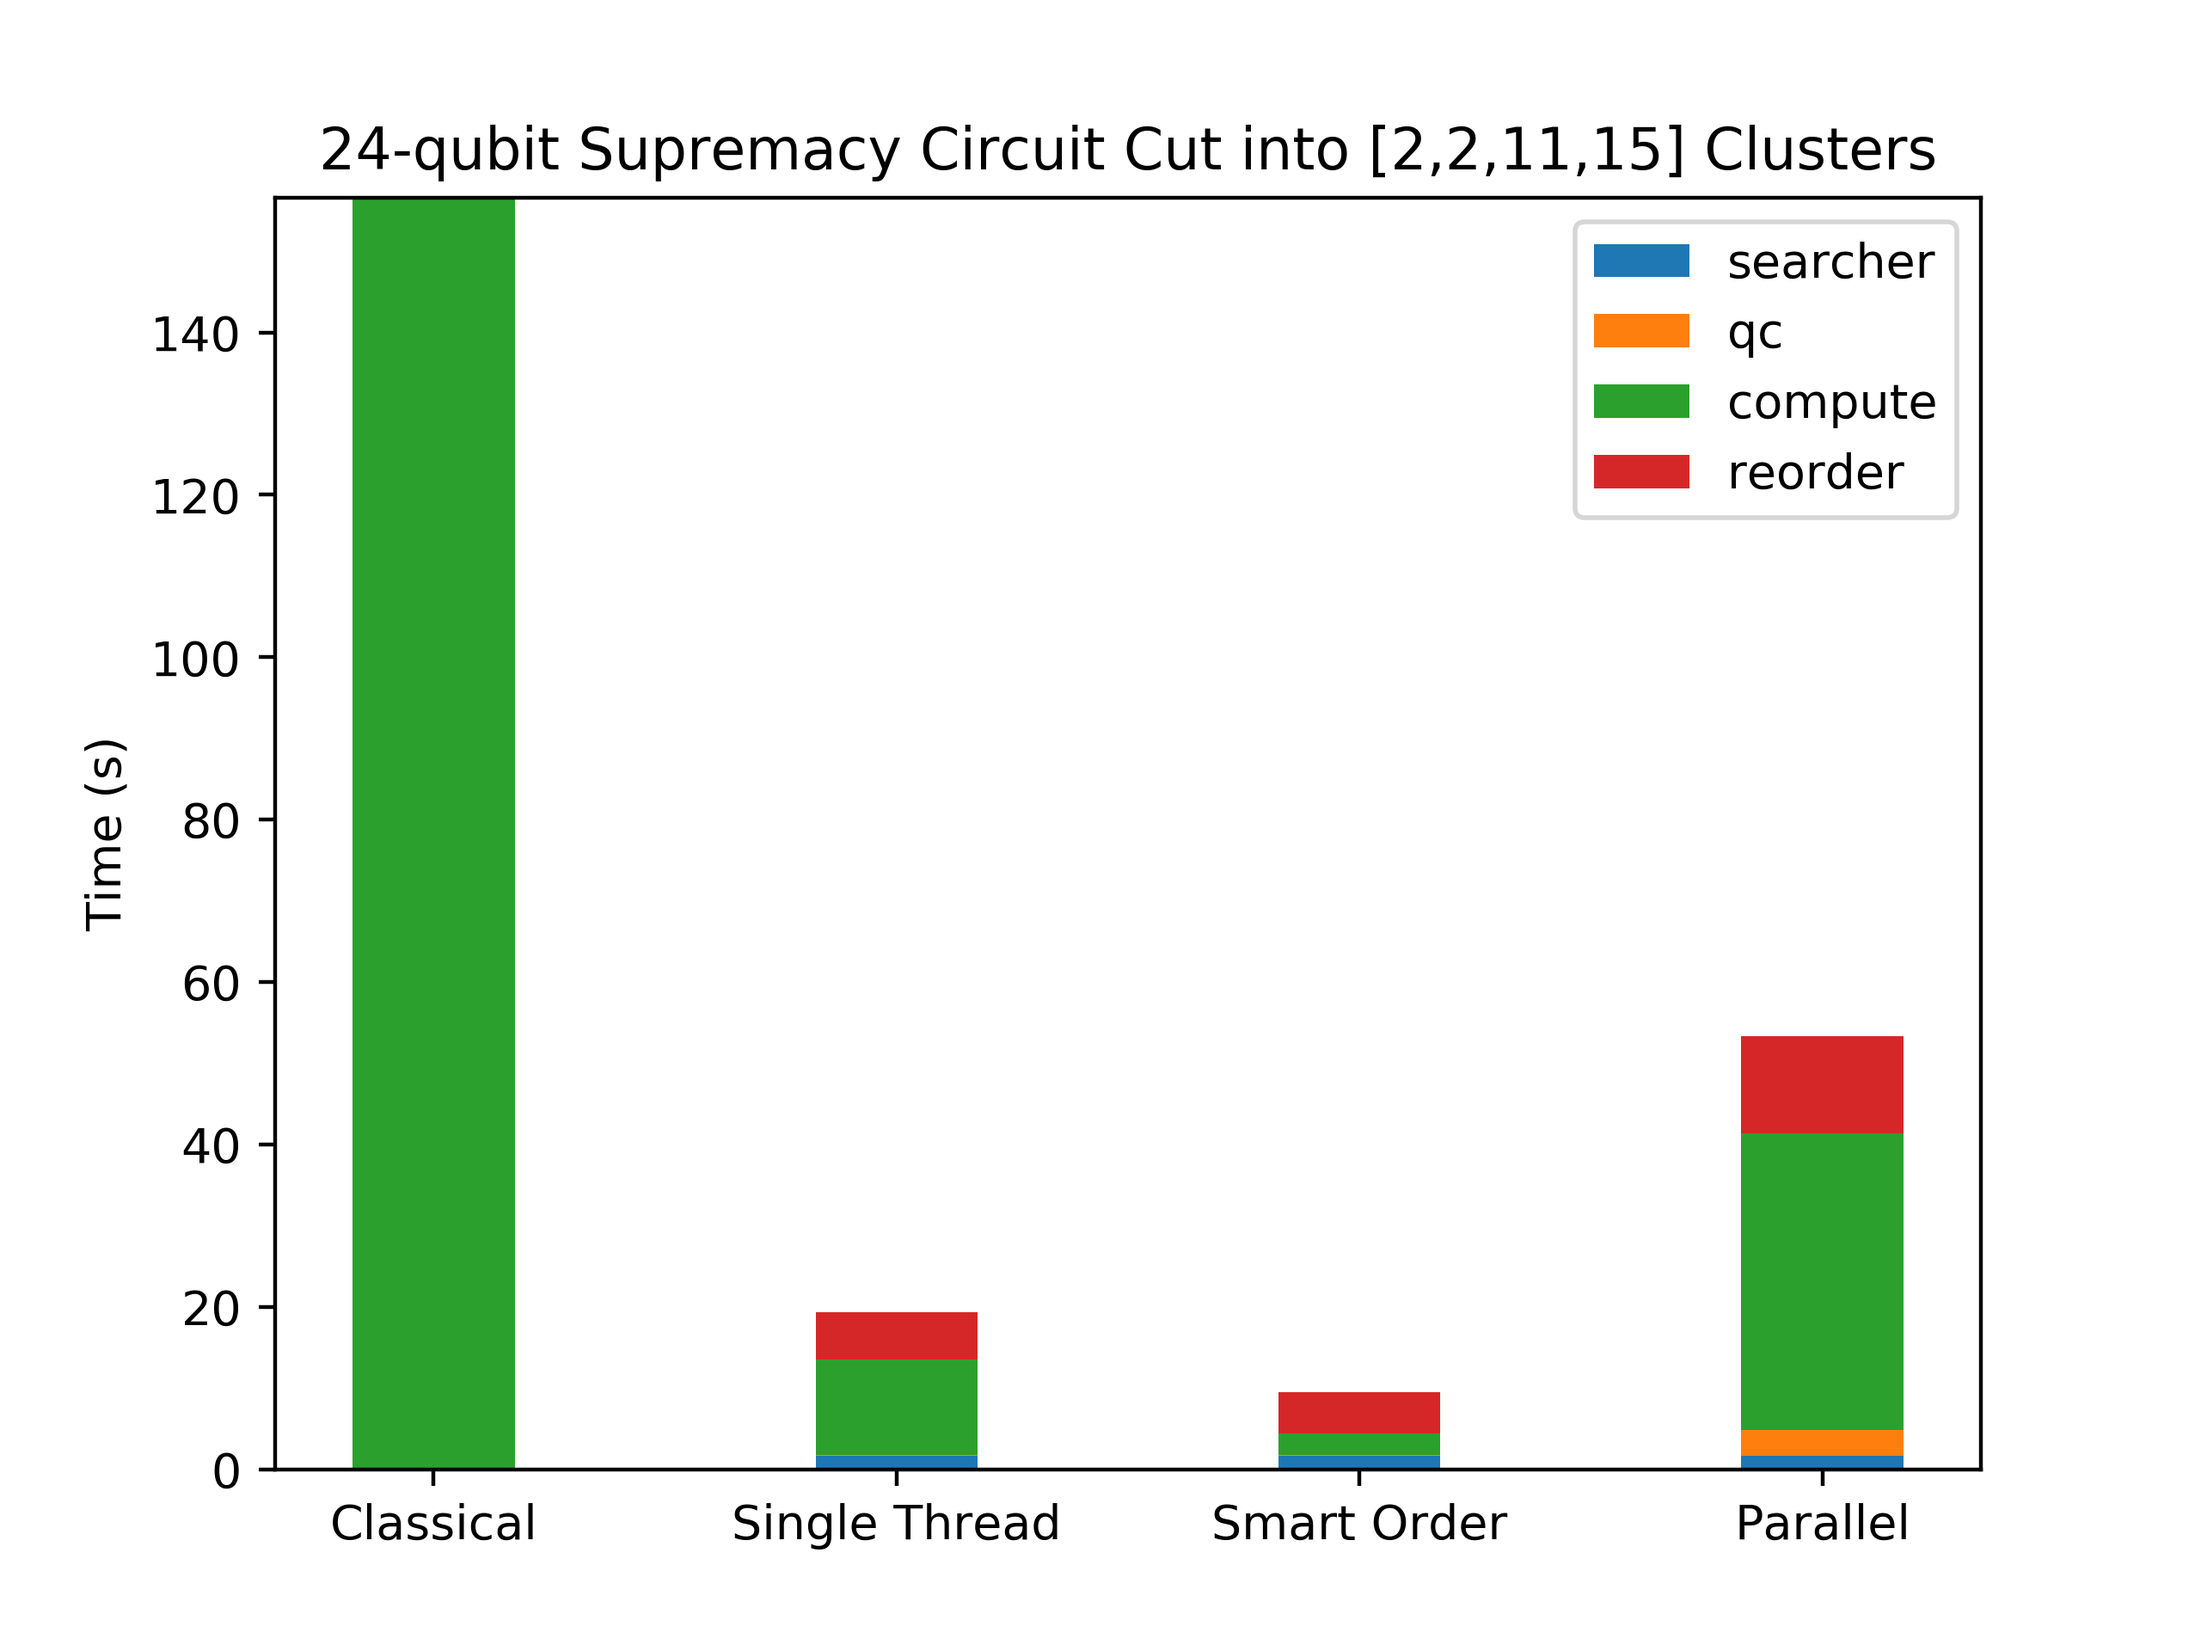
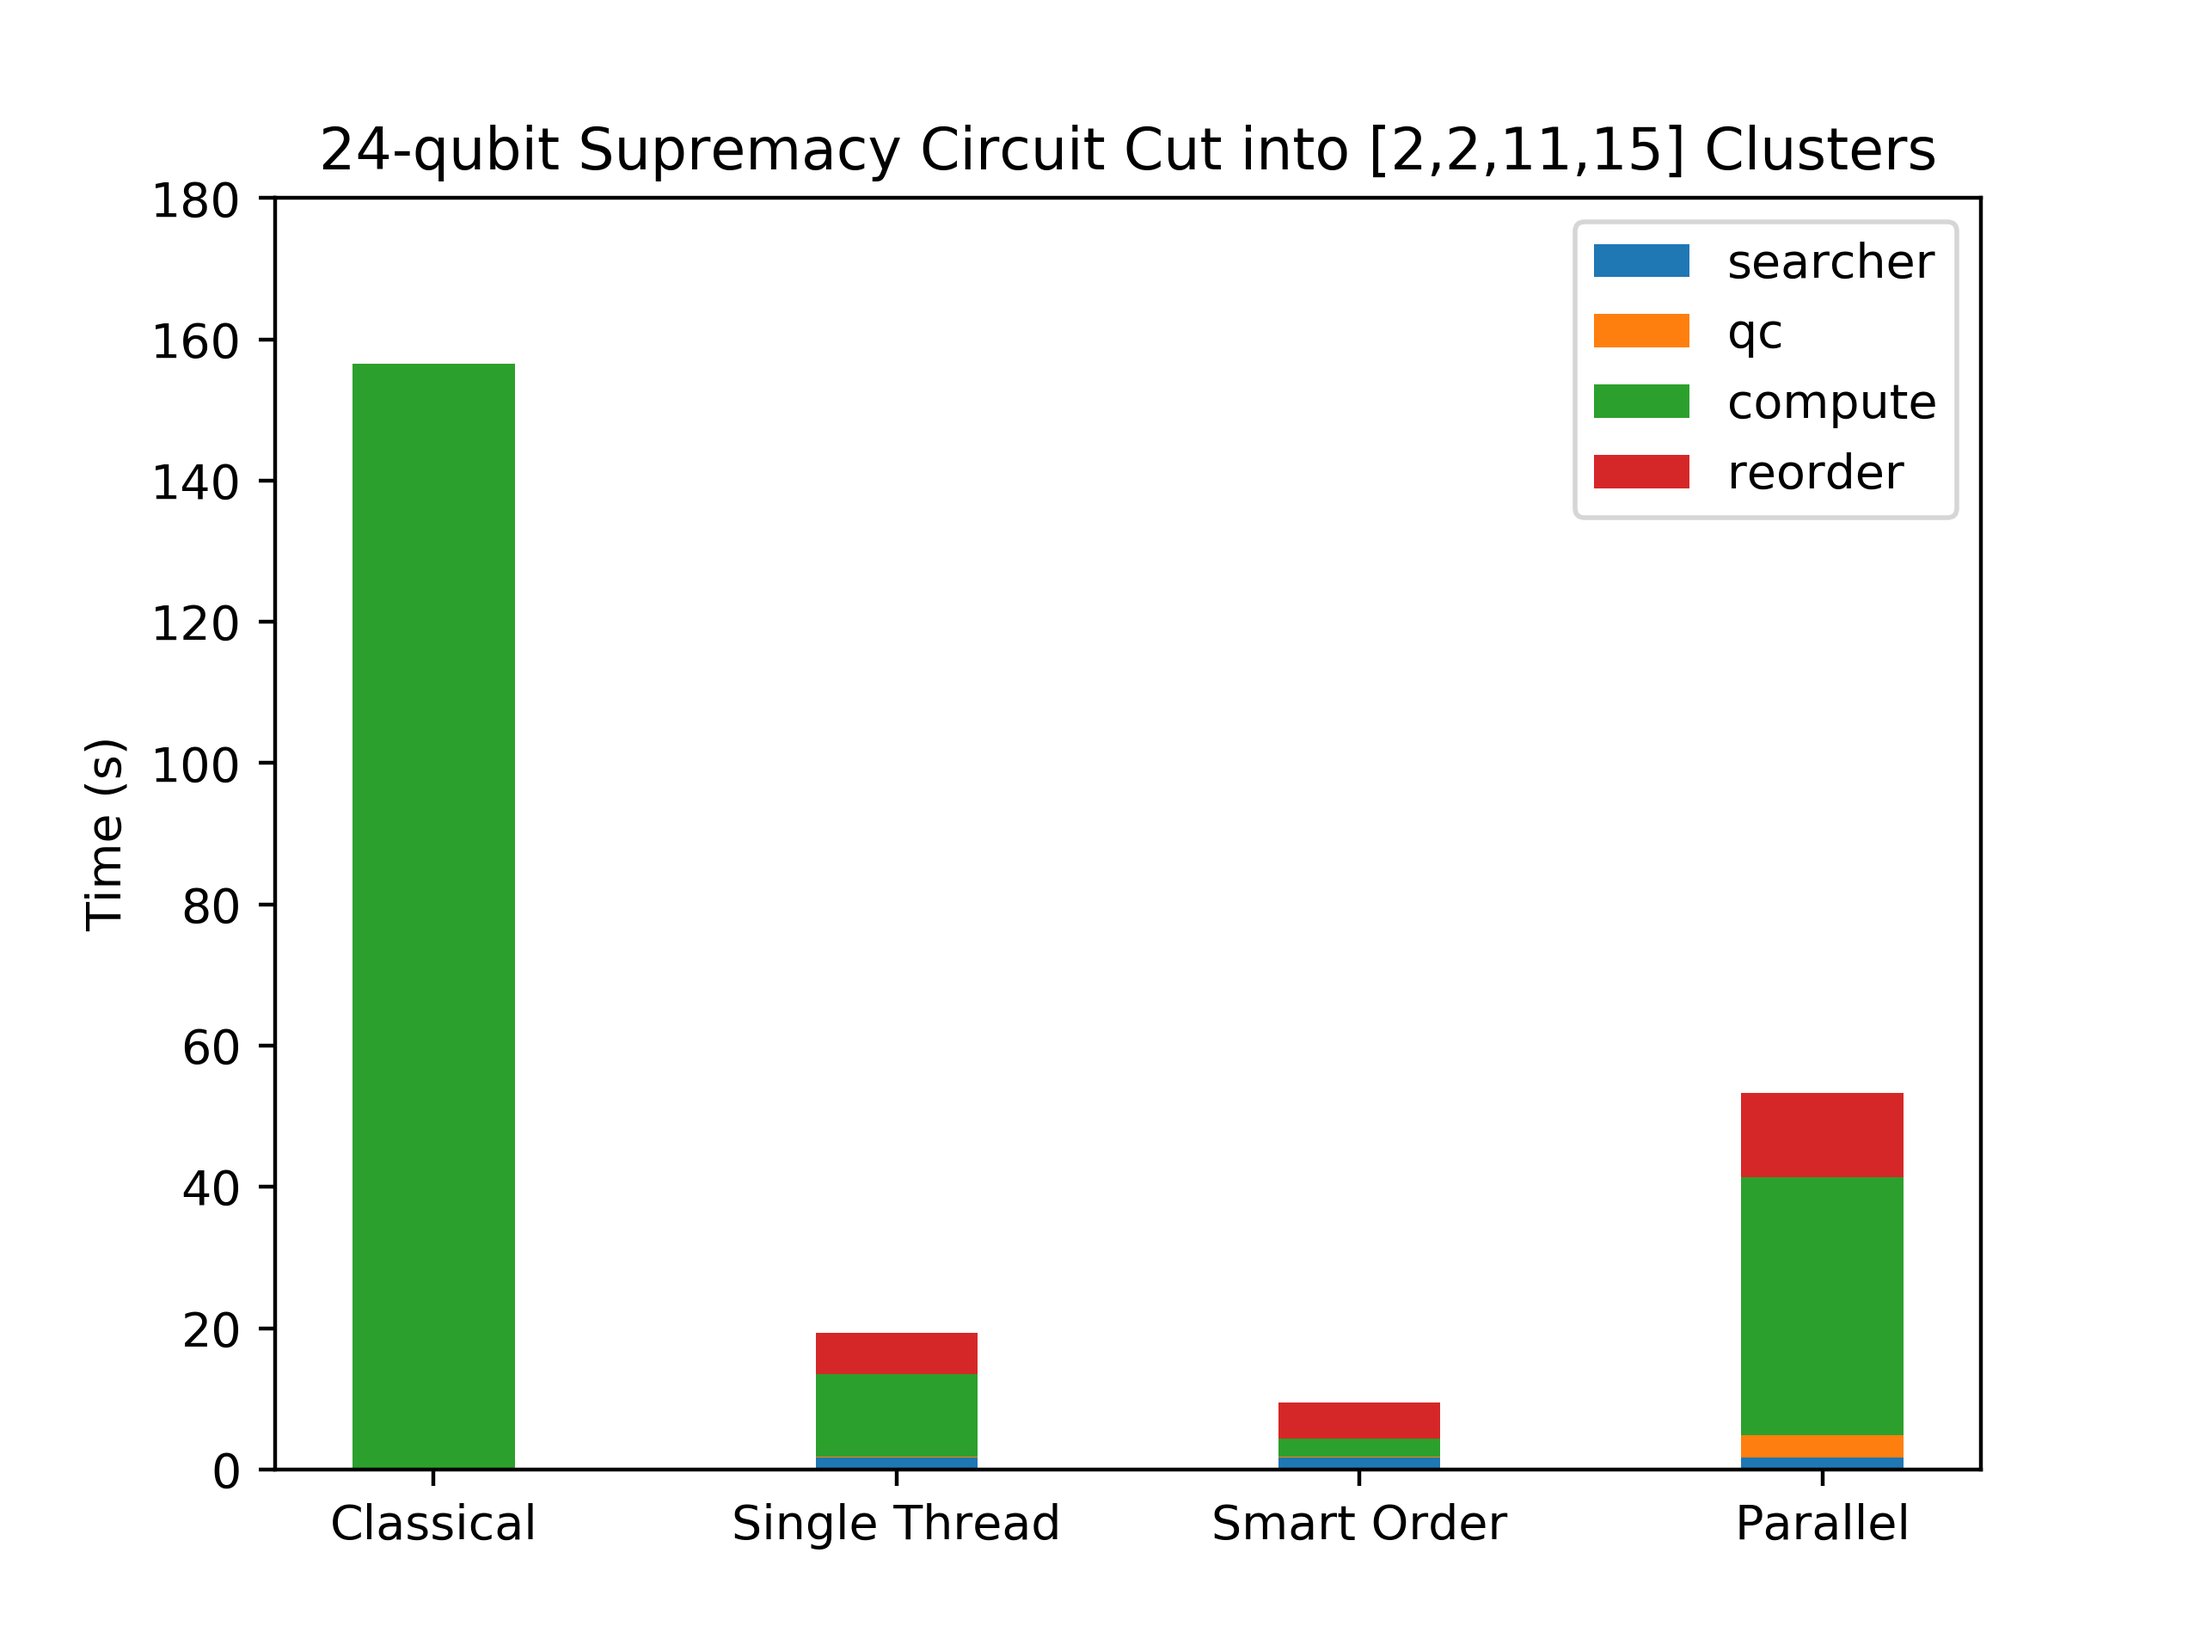
checking reconstructor techniques demonstration

diff --git a/make_revision_plot.py b/make_revision_plot.py
@@ -20,7 +20,7 @@ p4 = plt.bar(ind, reorder_time, width,bottom=searcher_time+qc_time+compute_time)
 plt.ylabel('Time (s)')
 plt.title('24-qubit Supremacy Circuit Cut into [2,2,11,15] Clusters')
 plt.xticks(ind, ('Classical', 'Single Thread', 'Smart Order', 'Parallel'))
-# plt.yticks(np.arange(0, 81, 10))
+plt.yticks(np.arange(0, 181, 20))
 plt.legend((p1[0], p2[0], p3[0], p4[0]), ('searcher', 'qc', 'compute', 'reorder'))
 
 plt.savefig('./large_on_small/techniques_demonstration.png',dpi=400)
